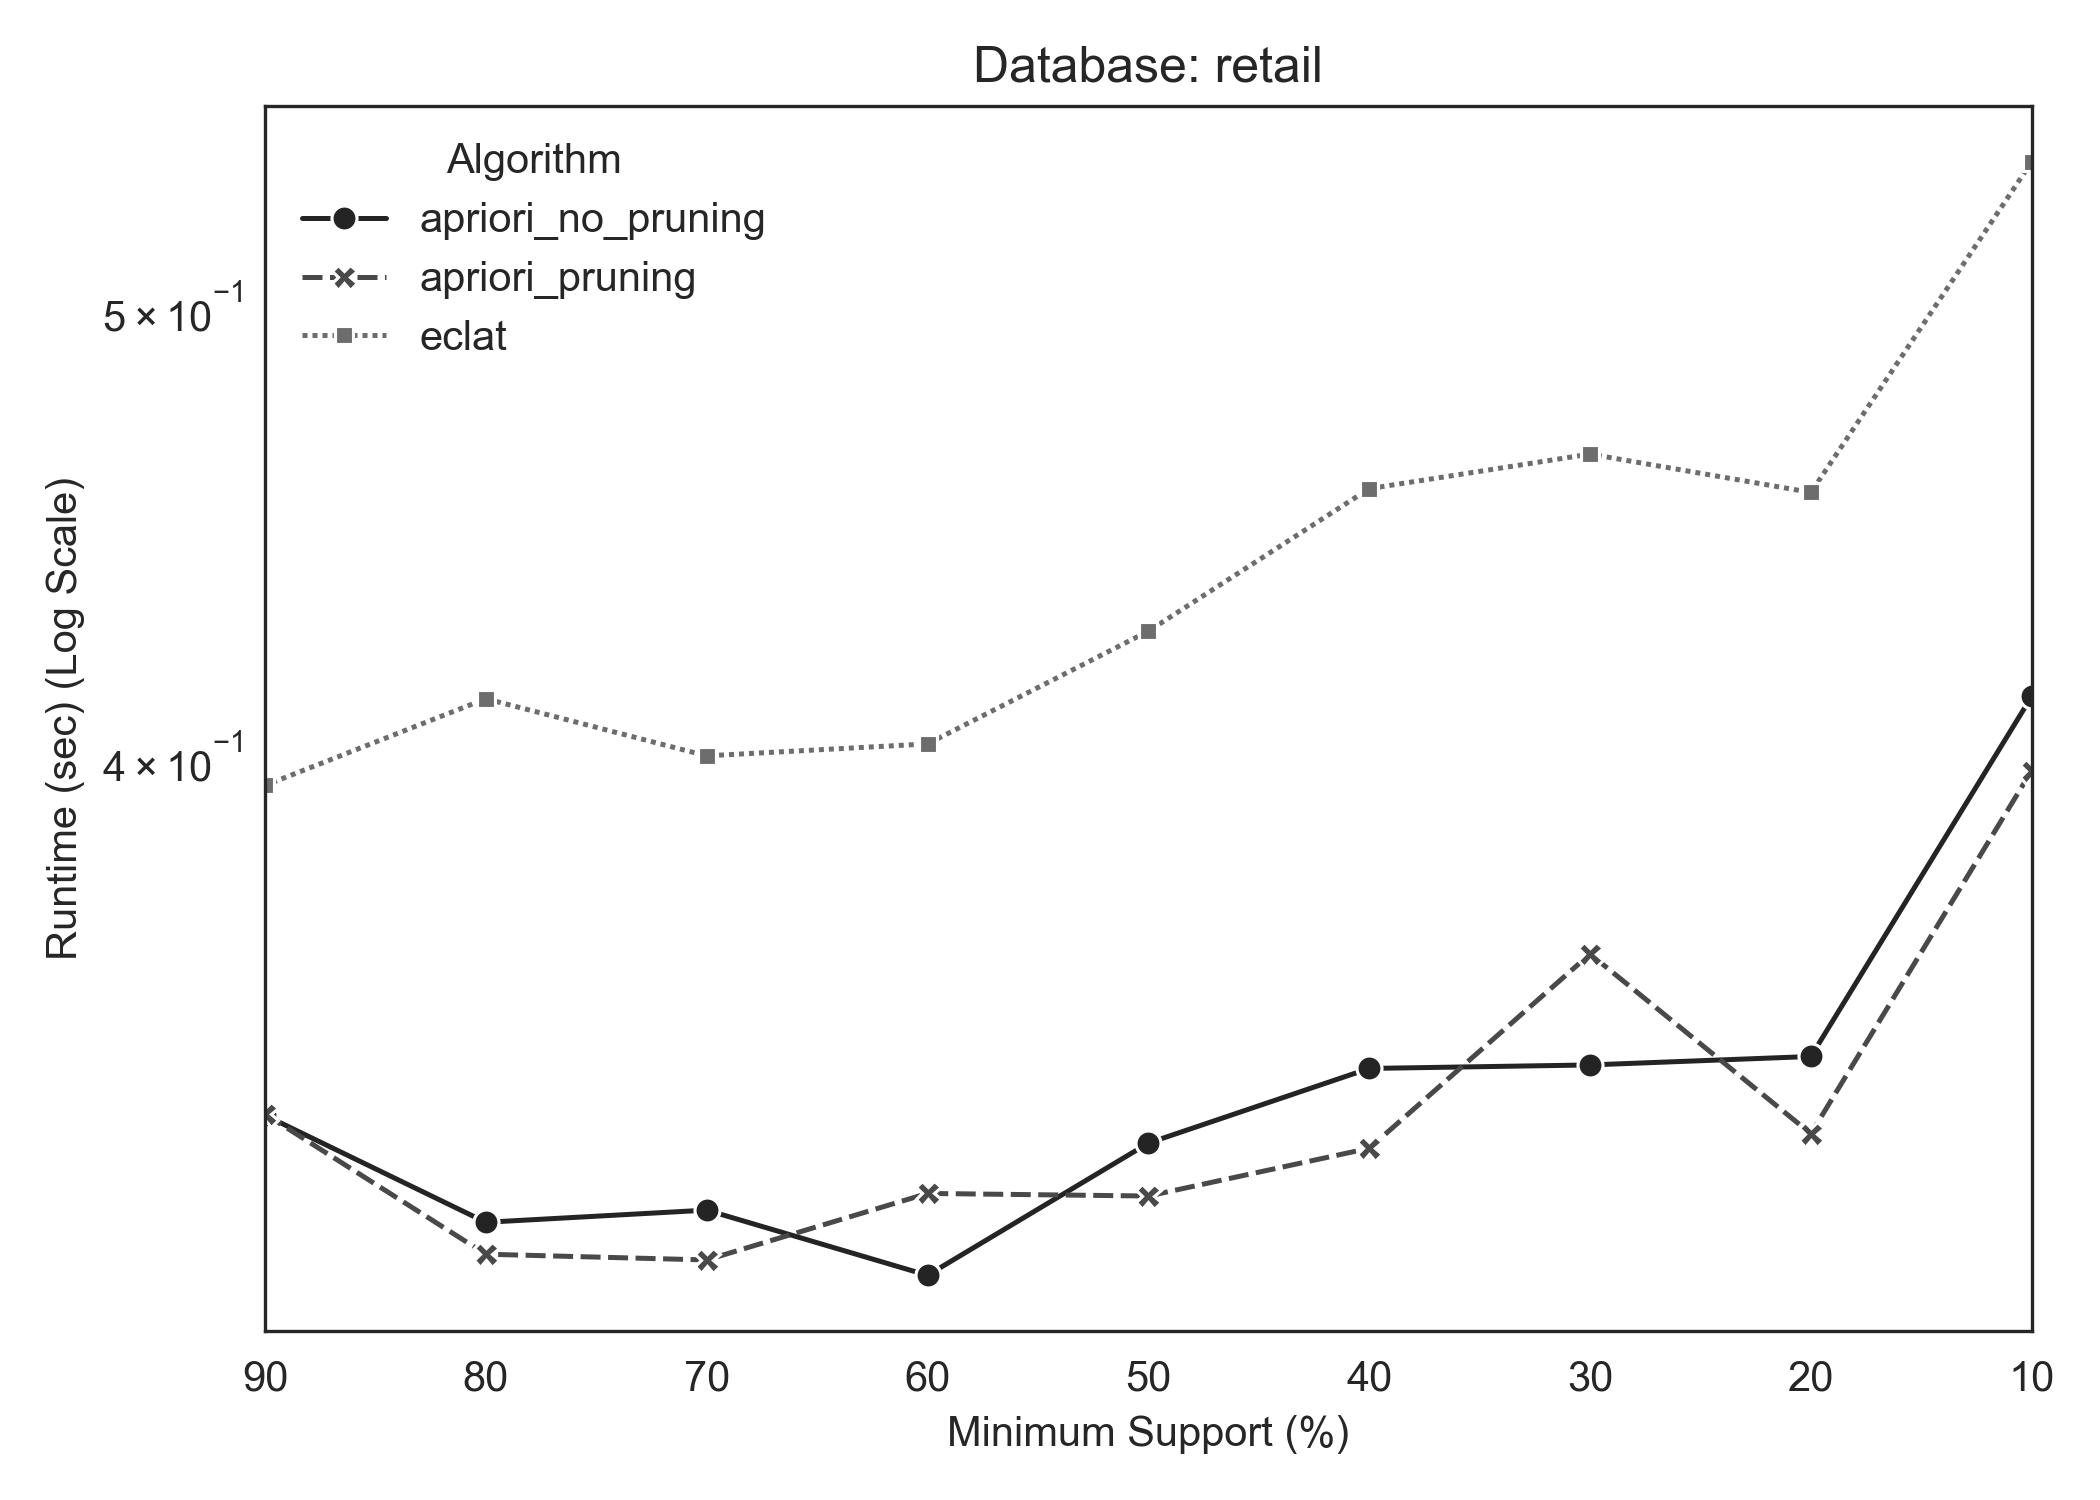
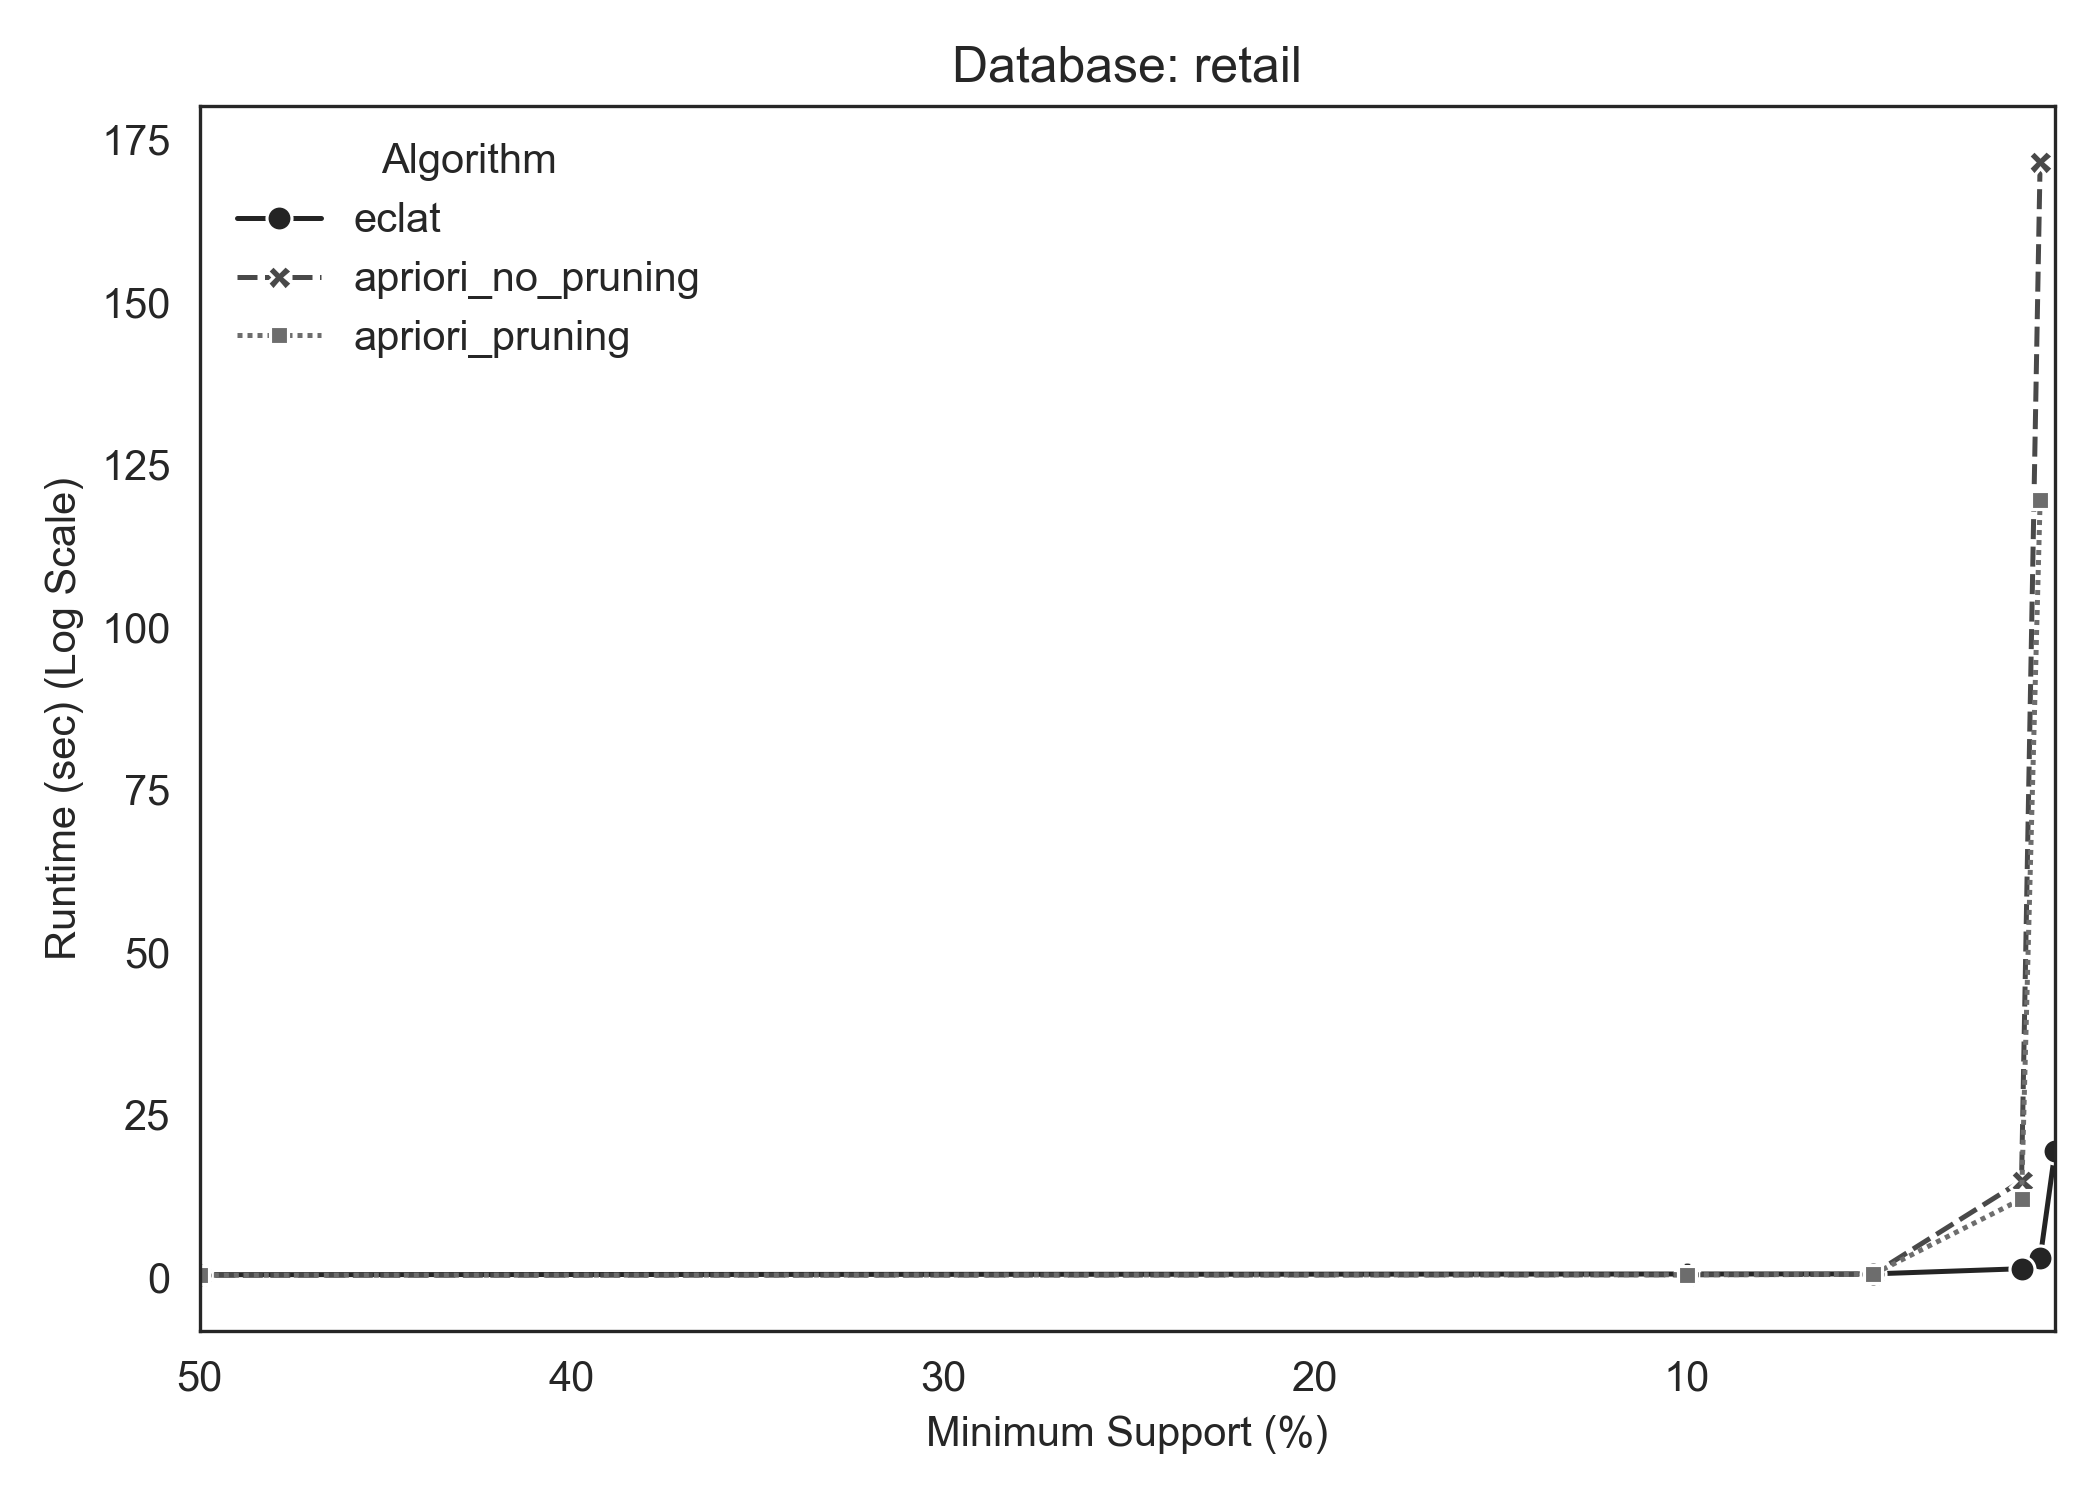
Run plots

diff --git a/plot_results.py b/plot_results.py
@@ -6,8 +6,14 @@ import seaborn as sns
 
 RESULTS_DIR = "results_experiment/"
 PLOTS_DIR = "plots/"
-DATASETS = {"toy", "accidents", "chess", "connect", "mushroom", "pumsb", "retail"}
+DATASETS = {"toy", "accidents", "chess", "connect", "pumsb", "retail"}
+# DATASETS = {"toy", "accidents", "chess", "connect", "mushroom", "pumsb", "retail"}
 ALGORITHMS = {"apriori_no_pruning", "apriori_pruning", "eclat"}
+ALGORITHMS_NAMES = {
+        "apriori_no_pruning": "Apriori",
+        "apriori_pruning": "Apriori Pruning",
+        "eclat": "Eclat"
+    }
 
 
 def load_algorithm_results(algorithm_name):
@@ -60,12 +66,10 @@ def load_dataset_results(dataset_name):
     df = df.dropna()
     return df
 
-def plot_dataset_results(dataset_name):
+def plot_dataset_runtime(df, dataset_name):
     """
-    Plots the impact of algorithms and threshold over the dataset.
+    Plots the runtime of algorithms over different thresholds for a dataset.
     """
-    df = load_dataset_results(dataset_name)
-
     df["threshold_pct"] = df["threshold"] * 100
 
     agg_df = df.groupby(["threshold_pct", "algorithm"]).agg(
@@ -92,7 +96,8 @@ def plot_dataset_results(dataset_name):
         errorbar=("sd")
     )
 
-    plt.yscale("log")
+    # plt.yscale("log")
+    # plt.xscale("log")
     plt.xlabel("Minimum Support (%)")
     plt.ylabel("Runtime (sec) (Log Scale)")
     plt.title(f"Database: {dataset_name}")
@@ -104,6 +109,62 @@ def plot_dataset_results(dataset_name):
     plt.tight_layout()
 
     plt.savefig(f"{PLOTS_DIR}/{dataset_name}_by_algorithms.png", dpi=300)
+    plt.close()
+
+
+def plot_dataset_memory(df, dataset_name):
+    """
+    Plots a bar plot of max memory usage per algorithm, grouped by threshold using catplot.
+    """
+    df["threshold_pct"] = df["threshold"] * 100
+    
+    agg_df = df.groupby(["threshold_pct", "algorithm"]).agg(
+        mean_memory=("max_memory", "mean")
+    ).reset_index()
+    
+    algorithm_order = ["apriori_no_pruning", "apriori_pruning", "eclat"]
+    
+    # Map algorithm names
+    agg_df["algorithm"] = agg_df["algorithm"].map(ALGORITHMS_NAMES)
+    
+    # Adjust order based on display names
+    display_algorithm_order = [ALGORITHMS_NAMES[alg] for alg in algorithm_order]
+    agg_df["algorithm"] = pd.Categorical(agg_df["algorithm"], categories=display_algorithm_order, ordered=True)
+    
+    agg_df = agg_df.sort_values(by=["threshold_pct", "algorithm"], ascending=[False, True])
+    
+    sns.set_style("whitegrid")
+    
+    g = sns.catplot(
+        data=agg_df,
+        x="algorithm",
+        y="mean_memory",
+        hue="algorithm",
+        hue_order=display_algorithm_order,
+        kind="bar",
+        col="threshold_pct",
+        col_wrap=2,
+        height=3,
+        aspect=1.2,
+        legend=False
+    )
+    
+    g.set_axis_labels("", "Max Memory Usage (MB)")
+    g.set_titles("Minimum support: {col_name} (%)")
+    g.set(yscale="linear")
+    g.tight_layout()
+    
+    plt.savefig(f"{PLOTS_DIR}/{dataset_name}_memory_usage.png", dpi=300)
+    plt.close()
+
+
+def plot_dataset_results(dataset_name):
+    """
+    Plots the impact of algorithms and threshold over the dataset.
+    """
+    df = load_dataset_results(dataset_name)
+    plot_dataset_runtime(df, dataset_name)
+    plot_dataset_memory(df, dataset_name)
 
 
 def process_files_in_folder():
